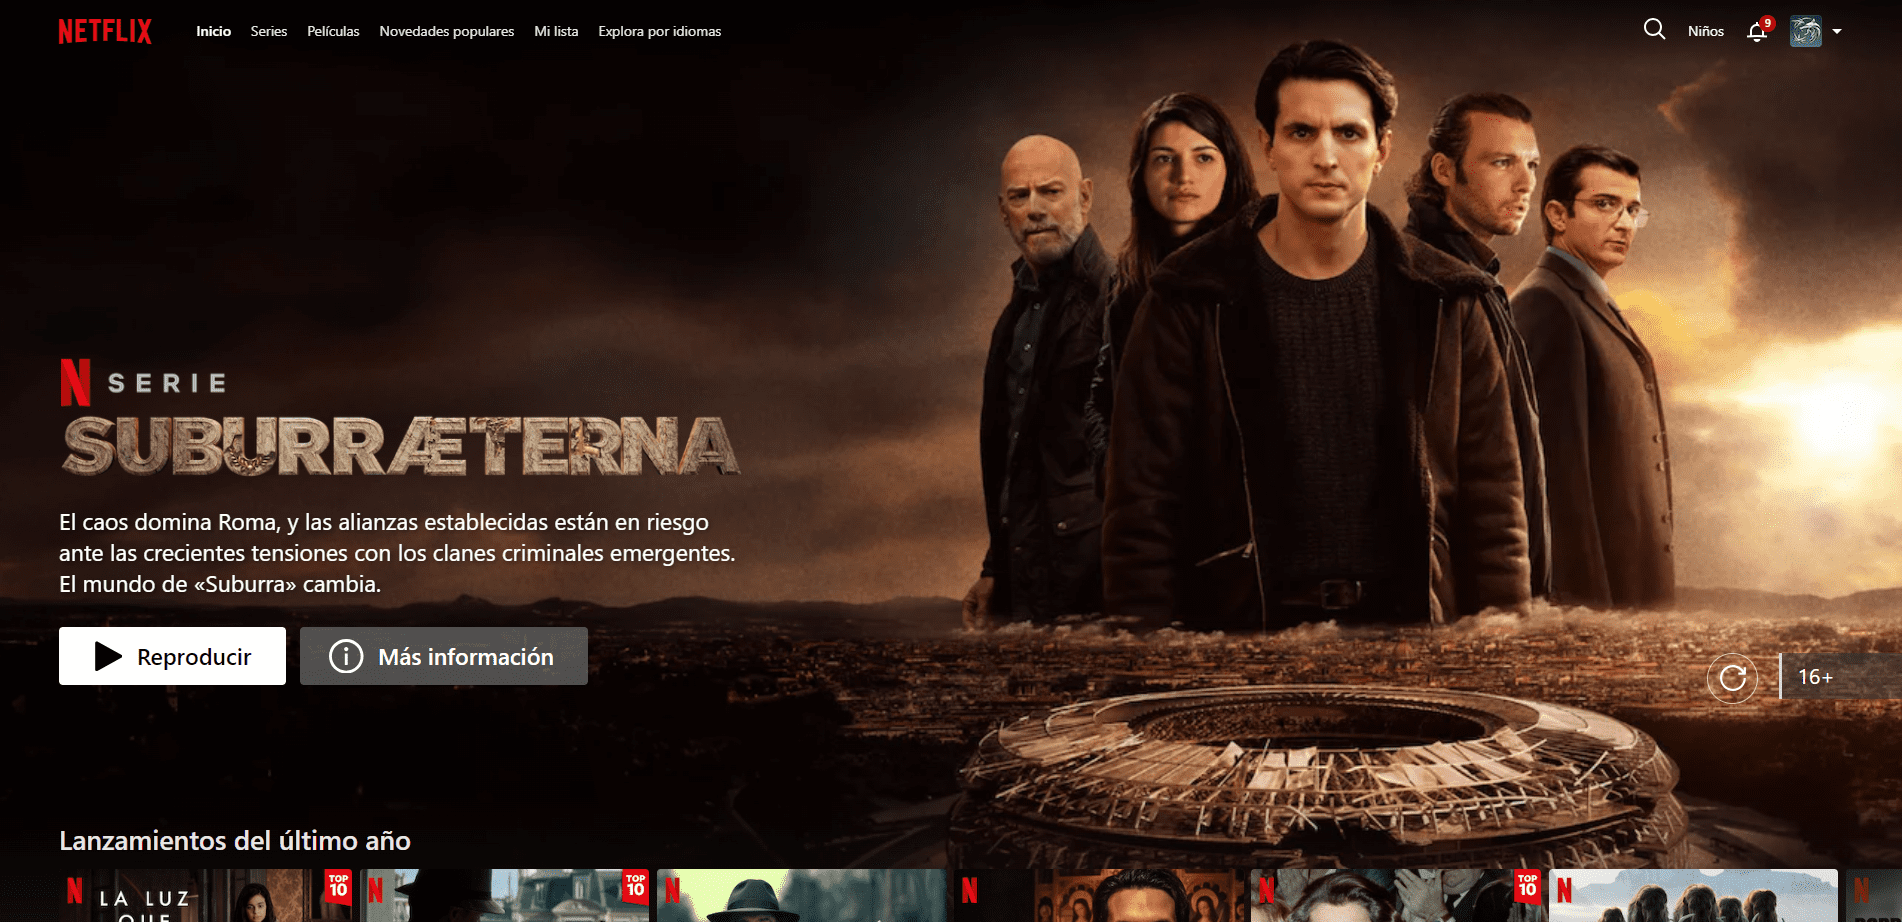
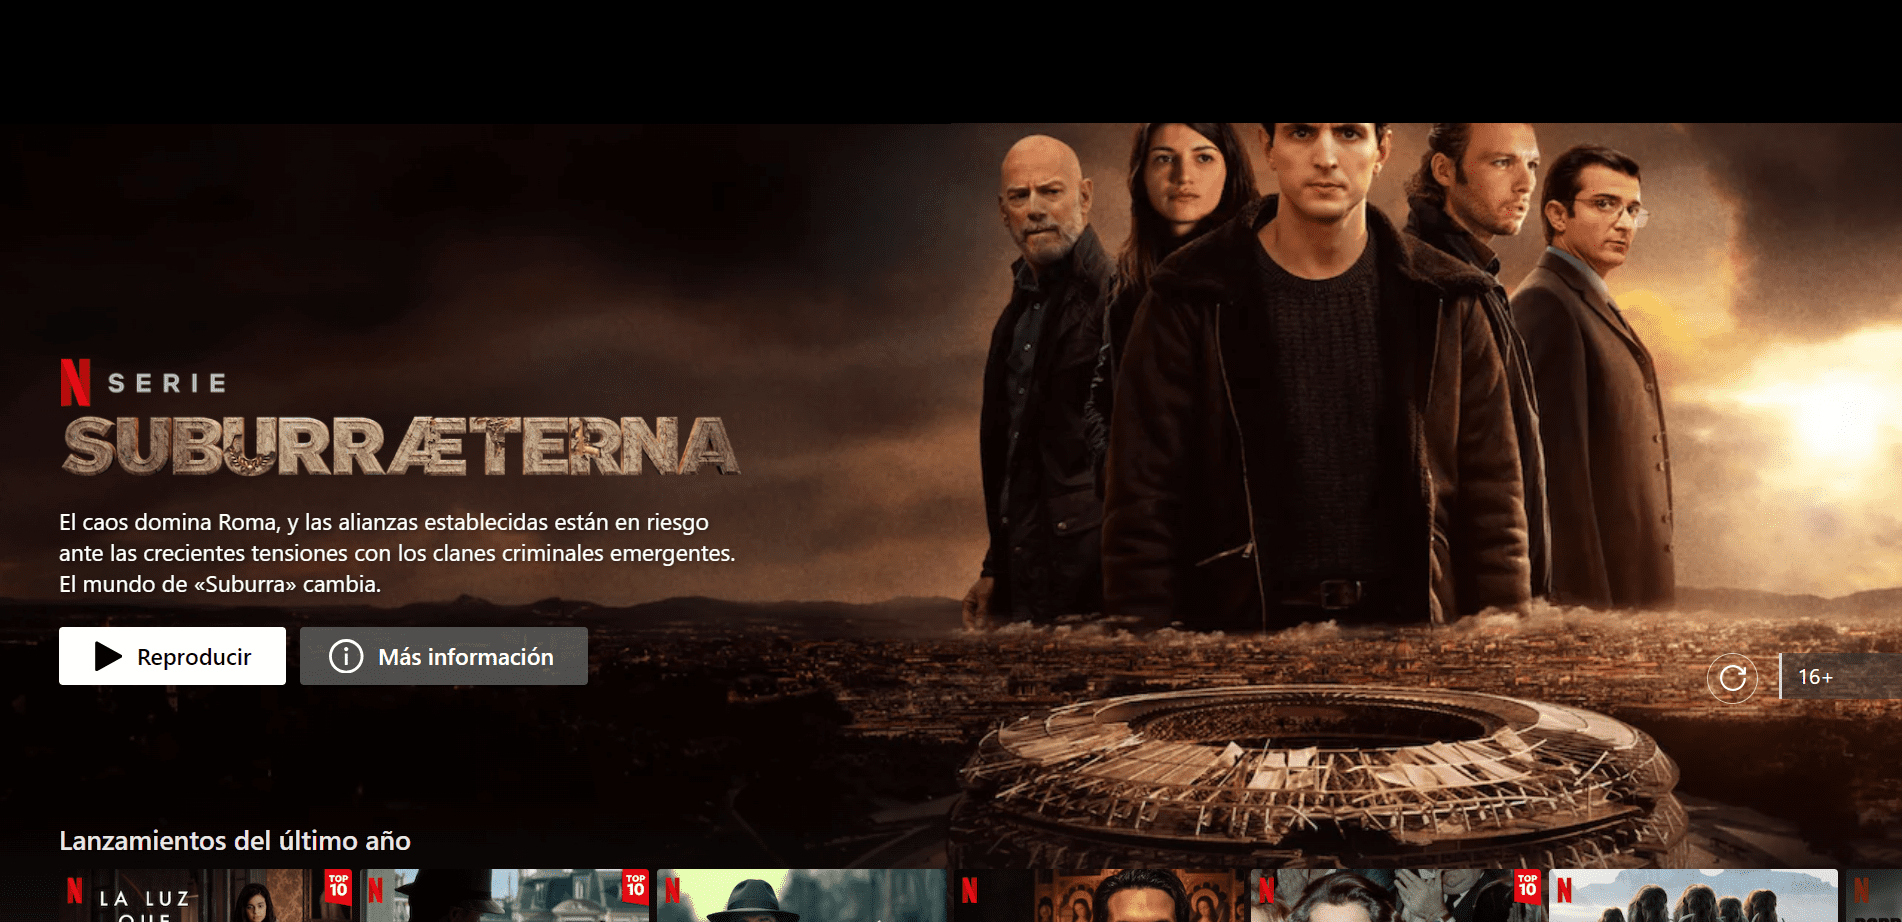
card, boton informacion, boton play

Changed region(s): [[0.4653, 0.0, 1.0, 0.1518], [0.031, 0.0, 0.3722, 0.0607]]

diff --git a/src/components/Navbar.jsx b/src/components/Navbar.jsx
@@ -3,7 +3,7 @@ import React from 'react'
 const Navbar = () => {
   return (
 
-    <div className="header bg-danger">
+    <div className="header">
     
         <nav className="navbar navbar-expand-lg navbar-dark shadow-5-strong text-dark">
             <div className="container-fluid">
@@ -24,6 +24,9 @@ const Navbar = () => {
                     </li>
                     <li className="nav-item">
                         <a className="nav-link text-white" aria-disabled="true">Disabled</a>
+                    </li>
+                    <li className="nav-item">
+                        <button className='btn btn-light m-3 text-dark'>▷ Reproducir</button>
                     </li>
                 </ul>
                 </div>

diff --git a/src/components/card/Card.jsx b/src/components/card/Card.jsx
@@ -1,0 +1,18 @@
+import React from 'react'
+import BtnReproducir from '../buttons/BtnReproducir'
+import BtnMasInformacion from '../buttons/BtnMasInformacion'
+
+const Card = ({ titulo, introduccion }) => {
+  return (
+    <div className="card m-5 border border-0" id='card'>
+      <div className="card-body">
+        <h1 className="card-title text-center display-1 fw-bold">{ titulo }</h1>
+        <p className="card-text fs-4 fw-semibold mt-4">{ introduccion }</p>
+        <BtnReproducir titulo={ titulo } />
+        <BtnMasInformacion />
+      </div>
+    </div>
+  )
+}
+
+export default Card

diff --git a/src/components/componente1/Componente1.jsx b/src/components/componente1/Componente1.jsx
@@ -1,0 +1,17 @@
+import React from 'react'
+
+const Componente1 = () => {
+  return (
+    <div className="card" style="width: 18rem;">
+      <div className="card-body">
+      <h5 className="card-title">Card title</h5>
+      <h6 className="card-subtitle mb-2 text-muted">Card subtitle</h6>
+      <p className="card-text">Some quick example text to build on the card title and make up the bulk of the card's content.</p>
+      <a href="#" className="card-link">Card link</a>
+      <a href="#" className="card-link">Another link</a>
+      </div>
+    </div>
+  )
+}
+
+export default Componente1

diff --git a/src/index.css b/src/index.css
@@ -14,12 +14,17 @@
   -webkit-text-size-adjust: 100%;
 }
 
-.header {
-  /* background: url('./assets/imagenes/banner-ejemplo.png') no-repeat center;
-  background-size: cover; */
+/* .header {
+  background: url('./assets/imagenes/banner-ejemplo.png') no-repeat center;
+  background-size: cover;
   min-height: 100vh;
-}
+} */
 
 .header .navbar {
+  background-color: transparent !important;
+}
+
+#card{
+  width: 50rem;
   background-color: transparent !important;
 }

diff --git a/src/components/Fondo.jsx b/src/components/Fondo.jsx
@@ -1,0 +1,15 @@
+import React from 'react'
+import Navbar from './Navbar'
+import Card from './card/Card'
+
+
+const Fondo = () => {
+  return (
+    <>
+    <Navbar />
+      <Card titulo='The Office' introduccion='El iluso jefe Michael intenta encauzar el descontento de sus empleados en la empresa papelera Dunder Mifflin a traves de continuas debilidades y percances.' />
+    </>
+  )
+}
+
+export default Fondo;

diff --git a/src/components/buttons/BtnReproducir.jsx b/src/components/buttons/BtnReproducir.jsx
@@ -1,0 +1,14 @@
+import React from 'react'
+
+const BtnReproducir = ({ titulo }) => {
+
+    function handleClick() {
+        alert(`REPRODUCIR: ${ titulo }`)
+    }
+
+  return (
+    <button onClick={ handleClick } className='btn btn-light text-dark m-1 fw-semibold'>▷Reproducir</button>
+  )
+}
+
+export default BtnReproducir

diff --git a/src/App.jsx b/src/App.jsx
@@ -1,11 +1,13 @@
-import Fondo from "./assets/components/fondo"
+import Fondo from "./components/Fondo"
 
 
 function App() {
 
   return (
     <>
+    <div className="bg-danger">
       <Fondo />
+    </div>
     </>
   )
 }

diff --git a/src/components/buttons/BtnMasInformacion.jsx b/src/components/buttons/BtnMasInformacion.jsx
@@ -1,0 +1,9 @@
+import React from 'react';
+
+const BtnMasInformacion = () => {
+  return (
+    <button className='btn btn-secondary m-1 fw-semibold'>ⓘ Más Información</button>
+  )
+}
+
+export default BtnMasInformacion;
